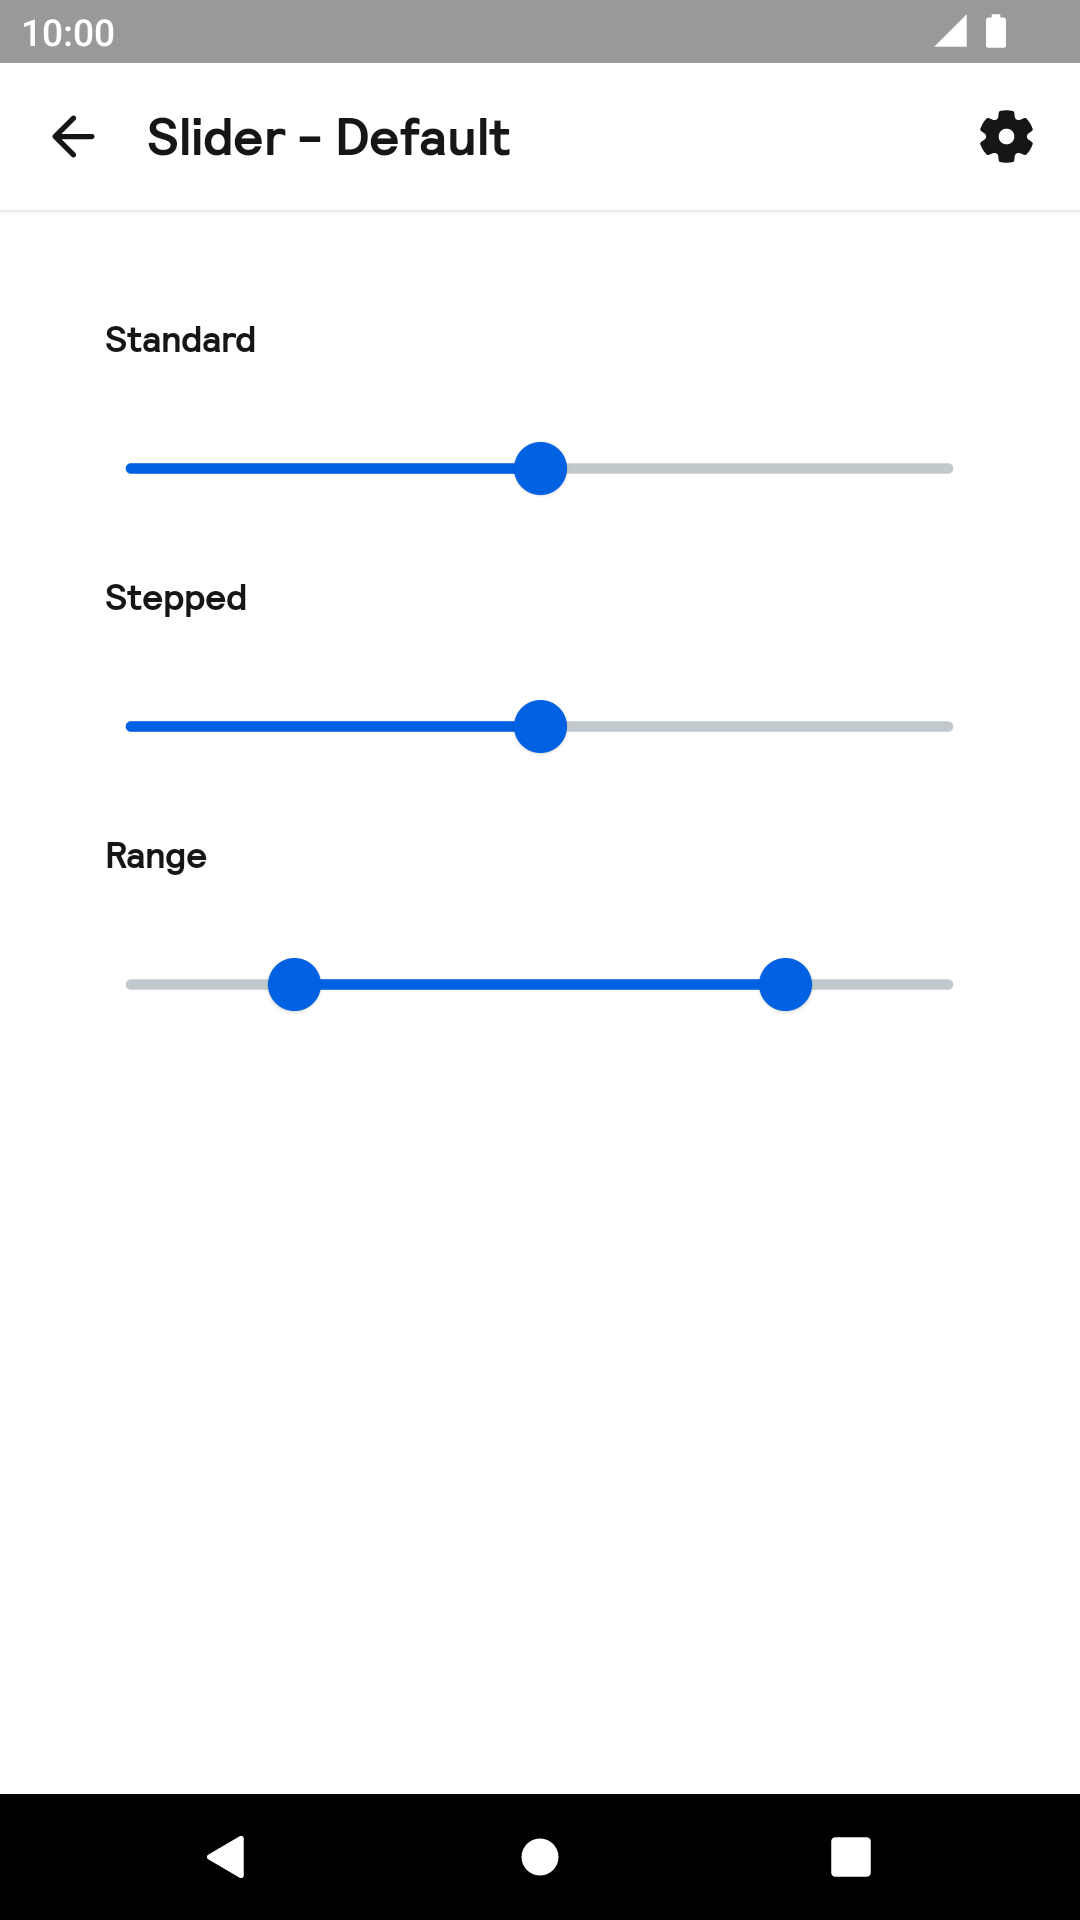
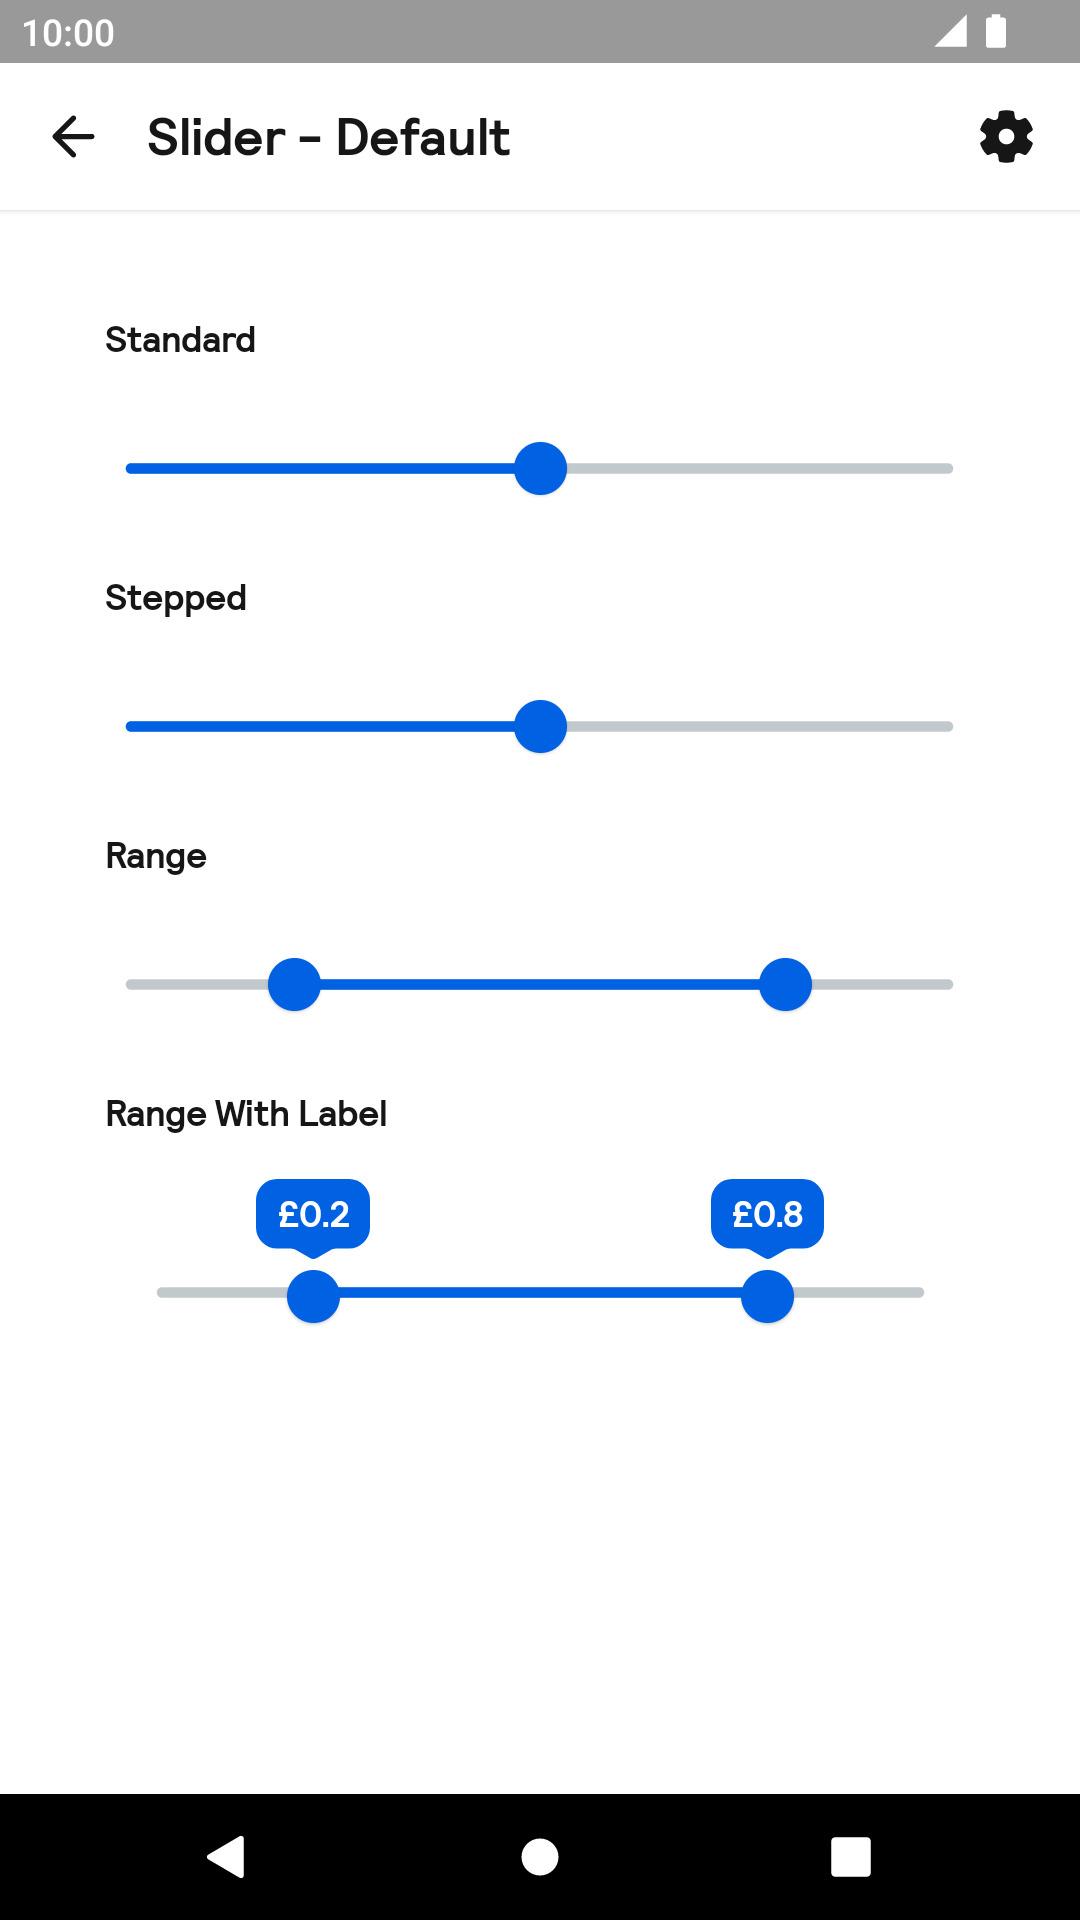
lumen/LMN-420_update_slider_to_provide_custom_thumb

Changed region(s): [[0.0917, 0.5625, 0.8556, 0.6875]]

diff --git a/backpack-compose/src/main/kotlin/net/skyscanner/backpack/compose/slider/internal/BpkRangeSliderImpl.kt b/backpack-compose/src/main/kotlin/net/skyscanner/backpack/compose/slider/internal/BpkRangeSliderImpl.kt
@@ -1,0 +1,217 @@
+package net.skyscanner.backpack.compose.slider.internal
+
+import androidx.compose.foundation.background
+import androidx.compose.foundation.interaction.MutableInteractionSource
+import androidx.compose.foundation.layout.Arrangement
+import androidx.compose.foundation.layout.Column
+import androidx.compose.foundation.layout.Spacer
+import androidx.compose.foundation.layout.height
+import androidx.compose.foundation.layout.padding
+import androidx.compose.foundation.progressSemantics
+import androidx.compose.material3.ExperimentalMaterial3Api
+import androidx.compose.material3.RangeSlider
+import androidx.compose.material3.SliderDefaults
+import androidx.compose.runtime.Composable
+import androidx.compose.runtime.remember
+import androidx.compose.ui.Alignment
+import androidx.compose.ui.ExperimentalComposeUiApi
+import androidx.compose.ui.Modifier
+import androidx.compose.ui.res.stringResource
+import androidx.compose.ui.semantics.disabled
+import androidx.compose.ui.semantics.invisibleToUser
+import androidx.compose.ui.semantics.semantics
+import androidx.compose.ui.semantics.setProgress
+import androidx.compose.ui.semantics.stateDescription
+import androidx.compose.ui.text.style.TextAlign
+import androidx.compose.ui.util.lerp
+import net.skyscanner.backpack.compose.R
+import net.skyscanner.backpack.compose.flare.BpkFlarePointerDirection
+import net.skyscanner.backpack.compose.text.BpkText
+import net.skyscanner.backpack.compose.theme.BpkTheme
+import net.skyscanner.backpack.compose.tokens.BpkBorderRadius
+import net.skyscanner.backpack.compose.tokens.BpkSpacing
+import net.skyscanner.backpack.compose.utils.FlareShape
+import kotlin.math.abs
+
+@OptIn(ExperimentalMaterial3Api::class)
+@Composable
+internal fun BpkRangeSliderImpl(
+    value: ClosedFloatingPointRange<Float>,
+    onValueChange: (ClosedFloatingPointRange<Float>) -> Unit,
+    enabled: Boolean,
+    minValue: Float,
+    maxValue: Float,
+    steps: Int,
+    onValueChangeFinished: (() -> Unit)?,
+    modifier: Modifier = Modifier,
+    lowerThumbLabel: String? = null,
+    upperThumbLabel: String? = null,
+) {
+    val startInteractionSource = remember { MutableInteractionSource() }
+    val endInteractionSource = remember { MutableInteractionSource() }
+    RangeSlider(
+        value = value,
+        onValueChange = onValueChange,
+        modifier = modifier,
+        enabled = enabled,
+        startInteractionSource = startInteractionSource,
+        endInteractionSource = endInteractionSource,
+        valueRange = minValue..maxValue,
+        steps = steps,
+        onValueChangeFinished = onValueChangeFinished,
+        startThumb = {
+            lowerThumbLabel?.let {
+                SlideRangeLabel(
+                    label = it,
+                    enabled = enabled,
+                    interactionSource = startInteractionSource,
+                    value = value.start,
+                    valueRange = minValue..maxValue,
+                    steps = steps,
+                    sliderRangeType = stringResource(id = R.string.range_start),
+                    onValueChange = { changedVal -> onValueChange(changedVal..value.endInclusive) },
+                    onValueChangeFinished = onValueChangeFinished,
+                )
+            } ?: SliderDefaults.Thumb(
+                interactionSource = startInteractionSource,
+                colors = sliderColors(),
+                enabled = enabled,
+            )
+        },
+        endThumb = {
+            upperThumbLabel?.let {
+                SlideRangeLabel(
+                    label = it,
+                    enabled = enabled,
+                    interactionSource = endInteractionSource,
+                    value = value.endInclusive,
+                    valueRange = minValue..maxValue,
+                    steps = steps,
+                    sliderRangeType = stringResource(id = R.string.range_end),
+                    onValueChange = { changedVal -> onValueChange(value.start..changedVal) },
+                    onValueChangeFinished = onValueChangeFinished,
+                )
+            } ?: SliderDefaults.Thumb(
+                interactionSource = endInteractionSource,
+                colors = sliderColors(),
+                enabled = enabled,
+            )
+        },
+        colors = sliderColors(),
+    )
+}
+
+@OptIn(ExperimentalComposeUiApi::class)
+@Composable
+private fun SlideRangeLabel(
+    value: Float,
+    enabled: Boolean,
+    label: String,
+    onValueChange: (Float) -> Unit,
+    sliderRangeType: String,
+    interactionSource: MutableInteractionSource,
+    valueRange: ClosedFloatingPointRange<Float>,
+    modifier: Modifier = Modifier,
+    onValueChangeFinished: (() -> Unit)? = null,
+    steps: Int = 0,
+) {
+    Column(
+        modifier = modifier
+            .sliderSemantics(
+                value = value,
+                enabled = enabled,
+                description = "$sliderRangeType, $label",
+                valueRange = valueRange,
+                steps = steps,
+                onValueChange = onValueChange,
+                onValueChangeFinished = onValueChangeFinished,
+            )
+            .padding(bottom = BpkSpacing.Xl),
+        verticalArrangement = Arrangement.Center,
+        horizontalAlignment = Alignment.CenterHorizontally,
+    ) {
+        BpkText(
+            text = label,
+            color = BpkTheme.colors.textPrimaryInverse,
+            style = BpkTheme.typography.label2,
+            textAlign = TextAlign.Center,
+            modifier = Modifier
+                .background(
+                    color = BpkTheme.colors.coreAccent,
+                    shape = FlareShape(
+                        borderRadius = BpkBorderRadius.Sm,
+                        flareHeight = BpkSpacing.Sm,
+                        pointerDirection = BpkFlarePointerDirection.Down,
+                    ),
+                )
+                .padding(top = BpkSpacing.Sm)
+                .padding(bottom = BpkSpacing.Md)
+                .padding(horizontal = BpkSpacing.Md)
+                .semantics { invisibleToUser() },
+
+        )
+        Spacer(
+            modifier = Modifier.height(BpkSpacing.Sm),
+        )
+        SliderDefaults.Thumb(
+            interactionSource = interactionSource,
+            colors = sliderColors(),
+            enabled = enabled,
+        )
+    }
+}
+
+@Composable
+internal fun sliderColors() = SliderDefaults.colors(
+    thumbColor = BpkTheme.colors.coreAccent,
+    activeTrackColor = BpkTheme.colors.coreAccent,
+    inactiveTrackColor = BpkTheme.colors.line,
+    activeTickColor = BpkTheme.colors.coreAccent,
+    inactiveTickColor = BpkTheme.colors.line,
+)
+
+private fun Modifier.sliderSemantics(
+    value: Float,
+    enabled: Boolean,
+    description: String,
+    onValueChange: (Float) -> Unit,
+    onValueChangeFinished: (() -> Unit)? = null,
+    valueRange: ClosedFloatingPointRange<Float>,
+    steps: Int = 0,
+): Modifier {
+    val coerced = value.coerceIn(valueRange.start, valueRange.endInclusive)
+    return semantics {
+        if (!enabled) disabled()
+        this.stateDescription = description
+        setProgress(
+            action = { targetValue ->
+                var newValue = targetValue.coerceIn(valueRange.start, valueRange.endInclusive)
+                val originalVal = newValue
+                val resolvedValue = if (steps > 0) {
+                    var distance: Float = newValue
+                    for (i in 0..steps + 1) {
+                        val stepValue = lerp(
+                            valueRange.start,
+                            valueRange.endInclusive,
+                            i.toFloat() / (steps + 1),
+                        )
+                        if (abs(stepValue - originalVal) <= distance) {
+                            distance = abs(stepValue - originalVal)
+                            newValue = stepValue
+                        }
+                    }
+                    newValue
+                } else {
+                    newValue
+                }
+                if (resolvedValue == coerced) {
+                    false
+                } else {
+                    onValueChange(resolvedValue)
+                    onValueChangeFinished?.invoke()
+                    true
+                }
+            },
+        )
+    }.progressSemantics(value, valueRange, steps)
+}

diff --git a/backpack-compose/src/main/kotlin/net/skyscanner/backpack/compose/slider/BpkSlider.kt b/backpack-compose/src/main/kotlin/net/skyscanner/backpack/compose/slider/BpkSlider.kt
@@ -20,14 +20,12 @@
 package net.skyscanner.backpack.compose.slider
 
 import androidx.compose.foundation.interaction.MutableInteractionSource
-import androidx.compose.material3.ExperimentalMaterial3Api
-import androidx.compose.material3.RangeSlider
 import androidx.compose.material3.Slider
-import androidx.compose.material3.SliderDefaults
 import androidx.compose.runtime.Composable
 import androidx.compose.runtime.remember
 import androidx.compose.ui.Modifier
-import net.skyscanner.backpack.compose.theme.BpkTheme
+import net.skyscanner.backpack.compose.slider.internal.BpkRangeSliderImpl
+import net.skyscanner.backpack.compose.slider.internal.sliderColors
 
 @Composable
 fun BpkSlider(
@@ -54,7 +52,6 @@ fun BpkSlider(
     )
 }
 
-@OptIn(ExperimentalMaterial3Api::class)
 @Composable
 fun BpkRangeSlider(
     value: ClosedFloatingPointRange<Float>,
@@ -66,23 +63,41 @@ fun BpkRangeSlider(
     steps: Int = 0,
     onValueChangeFinished: (() -> Unit)? = null,
 ) {
-    RangeSlider(
+    BpkRangeSliderImpl(
         value = value,
         onValueChange = onValueChange,
         modifier = modifier,
         enabled = enabled,
-        valueRange = minValue..maxValue,
+        minValue = minValue,
+        maxValue = maxValue,
         steps = steps,
         onValueChangeFinished = onValueChangeFinished,
-        colors = sliderColors(),
     )
 }
 
 @Composable
-private fun sliderColors() = SliderDefaults.colors(
-    thumbColor = BpkTheme.colors.coreAccent,
-    activeTrackColor = BpkTheme.colors.coreAccent,
-    inactiveTrackColor = BpkTheme.colors.line,
-    activeTickColor = BpkTheme.colors.coreAccent,
-    inactiveTickColor = BpkTheme.colors.line,
-)
+fun BpkRangeSlider(
+    value: ClosedFloatingPointRange<Float>,
+    onValueChange: (ClosedFloatingPointRange<Float>) -> Unit,
+    lowerThumbLabel: String,
+    upperThumbLabel: String,
+    modifier: Modifier = Modifier,
+    maxValue: Float = 1f,
+    enabled: Boolean = true,
+    minValue: Float = 0f,
+    steps: Int = 0,
+    onValueChangeFinished: (() -> Unit)? = null,
+) {
+    BpkRangeSliderImpl(
+        modifier = modifier,
+        value = value,
+        onValueChange = onValueChange,
+        enabled = enabled,
+        minValue = minValue,
+        maxValue = maxValue,
+        steps = steps,
+        lowerThumbLabel = lowerThumbLabel,
+        upperThumbLabel = upperThumbLabel,
+        onValueChangeFinished = onValueChangeFinished,
+    )
+}

diff --git a/app/src/main/java/net/skyscanner/backpack/demo/compose/SliderStory.kt b/app/src/main/java/net/skyscanner/backpack/demo/compose/SliderStory.kt
@@ -62,6 +62,11 @@ fun SliderStory(modifier: Modifier = Modifier) {
             style = BpkTheme.typography.label2,
         )
         RangeSliderSample()
+        BpkText(
+            text = stringResource(R.string.slider_range_with_label),
+            style = BpkTheme.typography.label2,
+        )
+        RangeSliderWithLabelsSample()
     }
 }
 
@@ -71,6 +76,19 @@ internal fun RangeSliderSample(modifier: Modifier = Modifier) {
     BpkRangeSlider(
         modifier = modifier,
         value = rangeSliderValue,
+        onValueChange = { newValue -> rangeSliderValue = newValue },
+    )
+}
+
+@Composable
+internal fun RangeSliderWithLabelsSample(modifier: Modifier = Modifier) {
+    var rangeSliderValue by remember { mutableStateOf(12f..80f) }
+    BpkRangeSlider(
+        modifier = modifier,
+        maxValue = 100f,
+        value = rangeSliderValue,
+        lowerThumbLabel = stringResource(id = R.string.gbp_formatter, rangeSliderValue.start),
+        upperThumbLabel = stringResource(id = R.string.gbp_formatter, rangeSliderValue.endInclusive),
         onValueChange = { newValue -> rangeSliderValue = newValue },
     )
 }

diff --git a/app/src/androidTest/java/net/skyscanner/backpack/compose/slider/BpkSliderTest.kt b/app/src/androidTest/java/net/skyscanner/backpack/compose/slider/BpkSliderTest.kt
@@ -26,6 +26,7 @@ import net.skyscanner.backpack.Variants
 import net.skyscanner.backpack.compose.BpkSnapshotTest
 import net.skyscanner.backpack.demo.compose.DefaultSliderSample
 import net.skyscanner.backpack.demo.compose.RangeSliderSample
+import net.skyscanner.backpack.demo.compose.RangeSliderWithLabelsSample
 import org.junit.Test
 import org.junit.runner.RunWith
 
@@ -41,5 +42,11 @@ class BpkSliderTest : BpkSnapshotTest() {
     @Variants(BpkTestVariant.Default, BpkTestVariant.Rtl)
     fun range() = snap(width = 200.dp) {
         RangeSliderSample()
+    }
+
+    @Test
+    @Variants(BpkTestVariant.Default, BpkTestVariant.Rtl)
+    fun rangeWithLabel() = snap(width = 200.dp) {
+        RangeSliderWithLabelsSample()
     }
 }

diff --git a/docs/compose/Slider/README.md b/docs/compose/Slider/README.md
@@ -37,3 +37,17 @@ BpkRangeSlider(
   onValueChange = { newValue -> } // Handle update
 )
 ```
+
+Example of a `BpkRangeSlider` with Label:
+
+```Kotlin
+import net.skyscanner.backpack.compose.slider.BpkSlider
+
+var rangeSliderValue by remember { mutableStateOf(0.2f..0.8f) }
+BpkRangeSlider(
+    value = rangeSliderValue,
+    lowerThumbLabel = stringResource(id = R.string.gbp_formatter, rangeSliderValue.start),
+    upperThumbLabel = stringResource(id = R.string.gbp_formatter, rangeSliderValue.endInclusive),
+    onValueChange = { newValue -> } // Handle update
+)
+```
